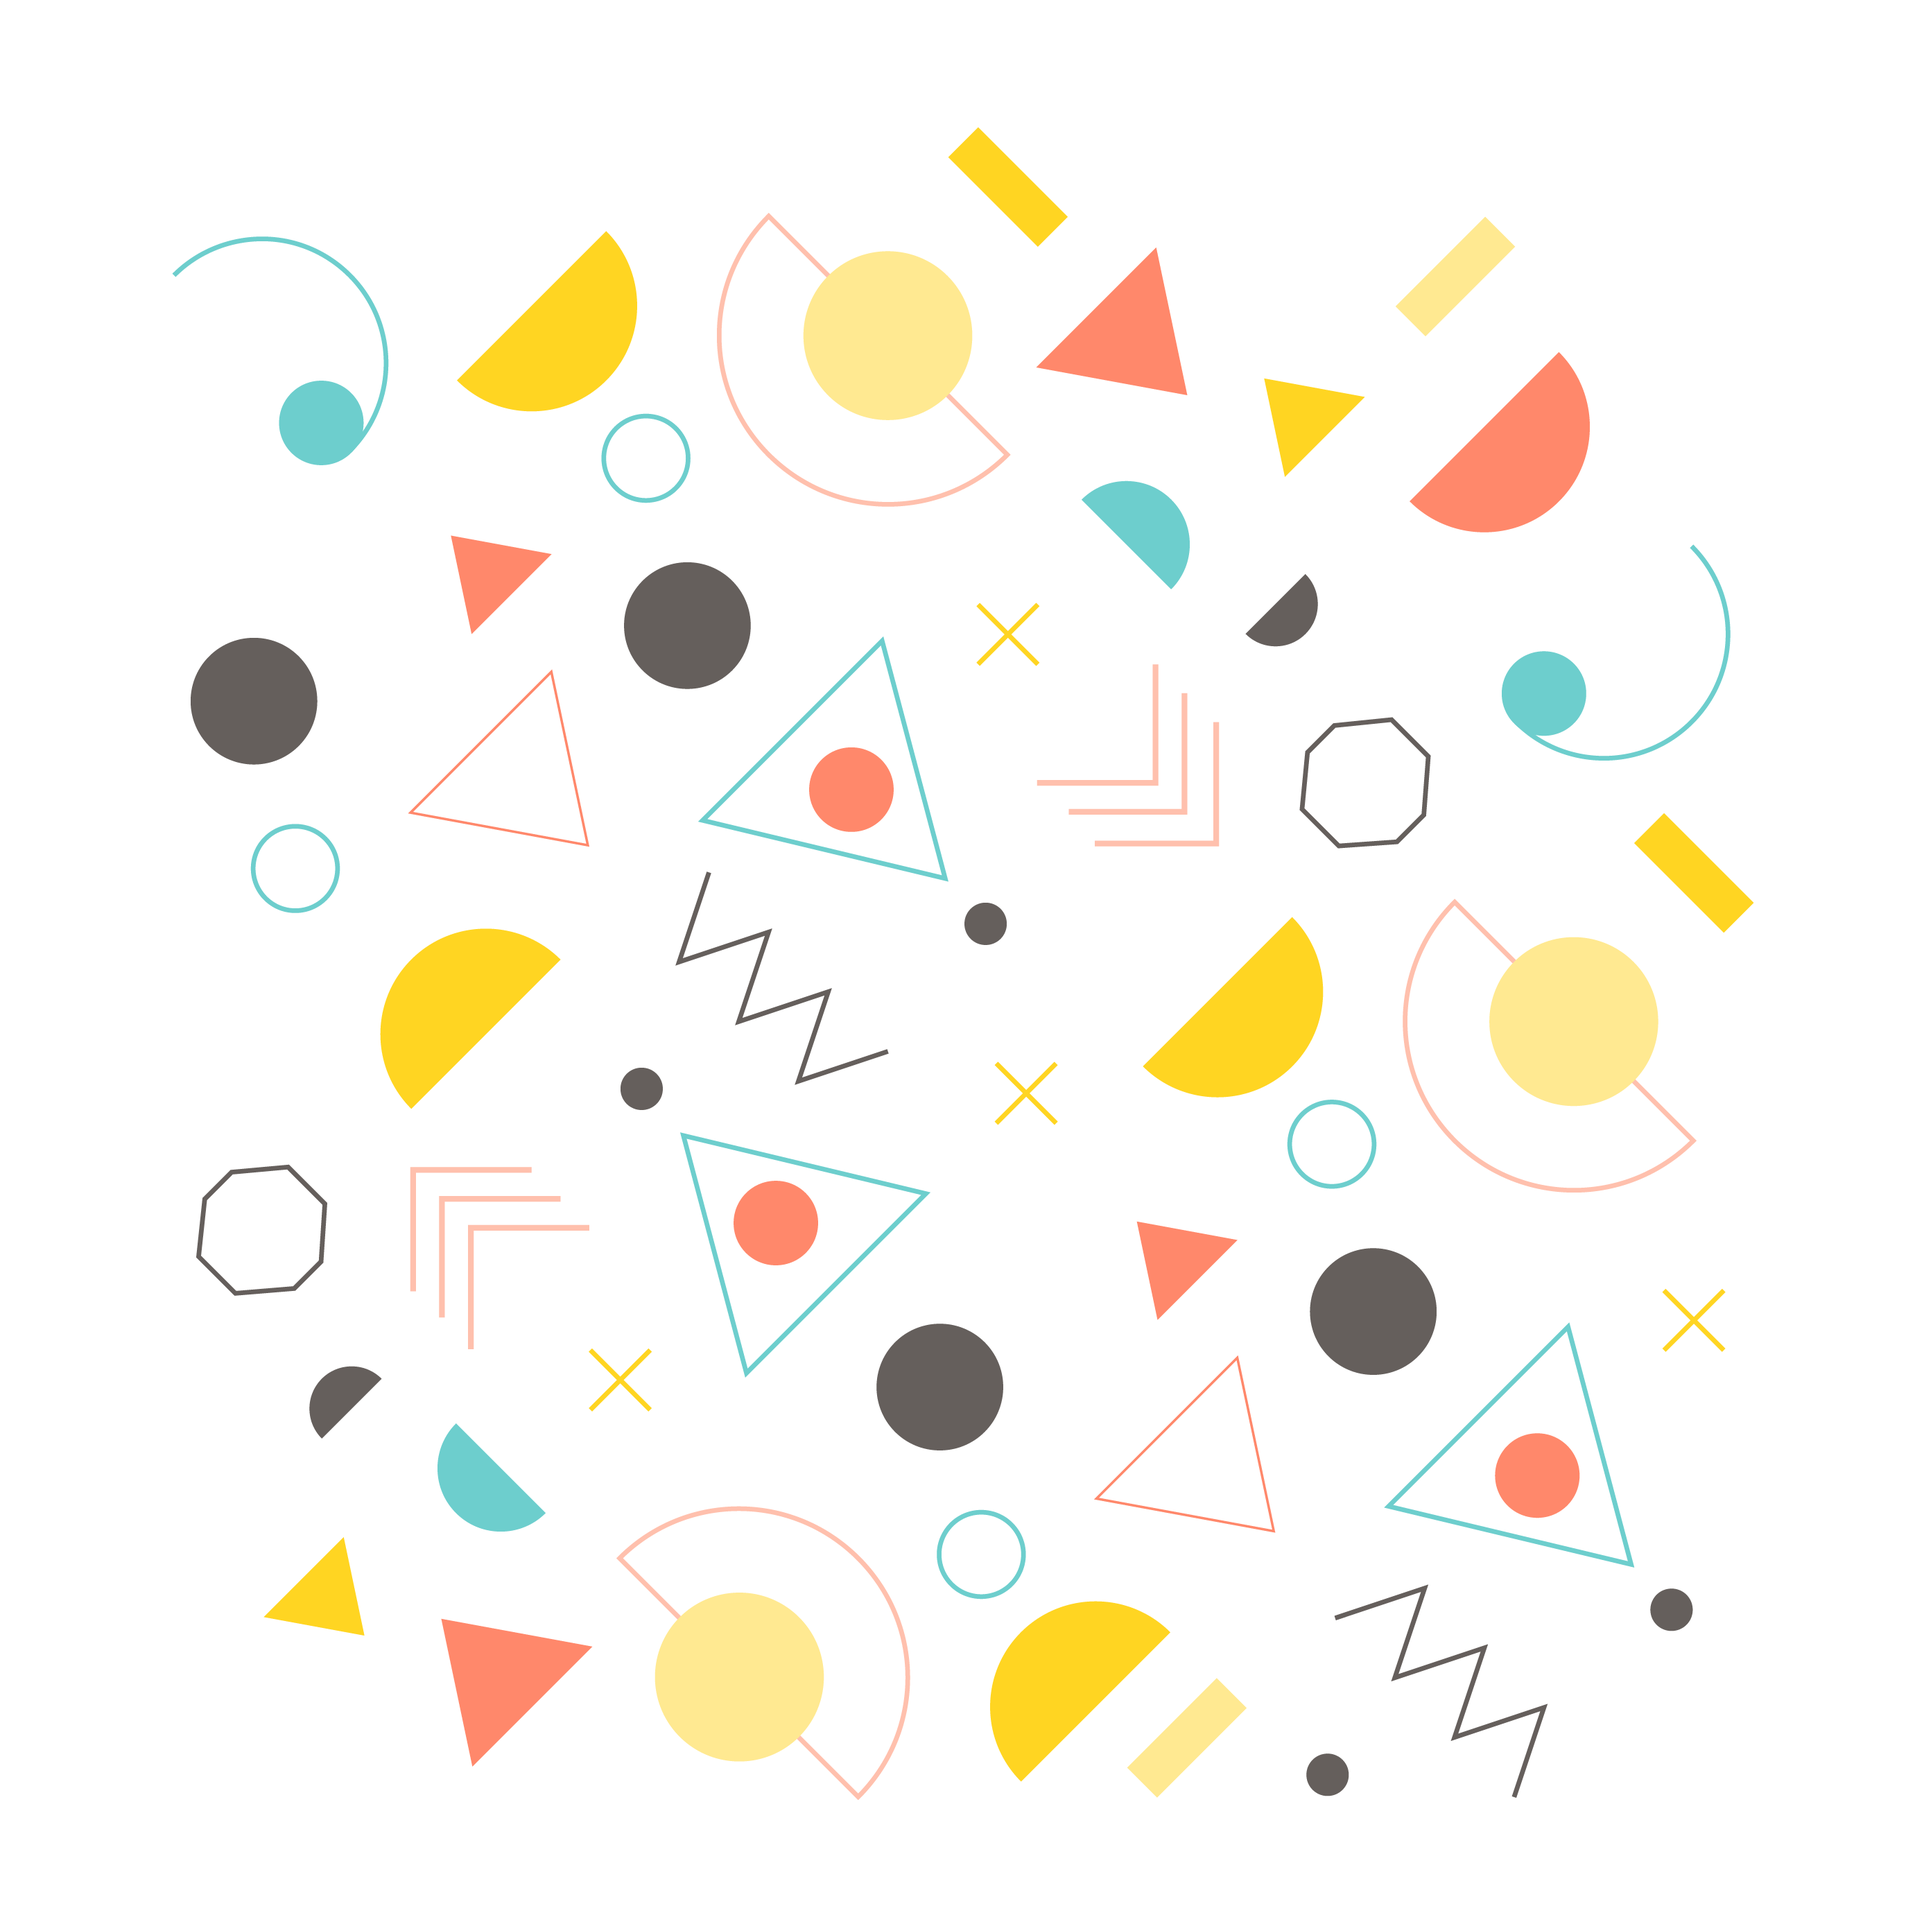
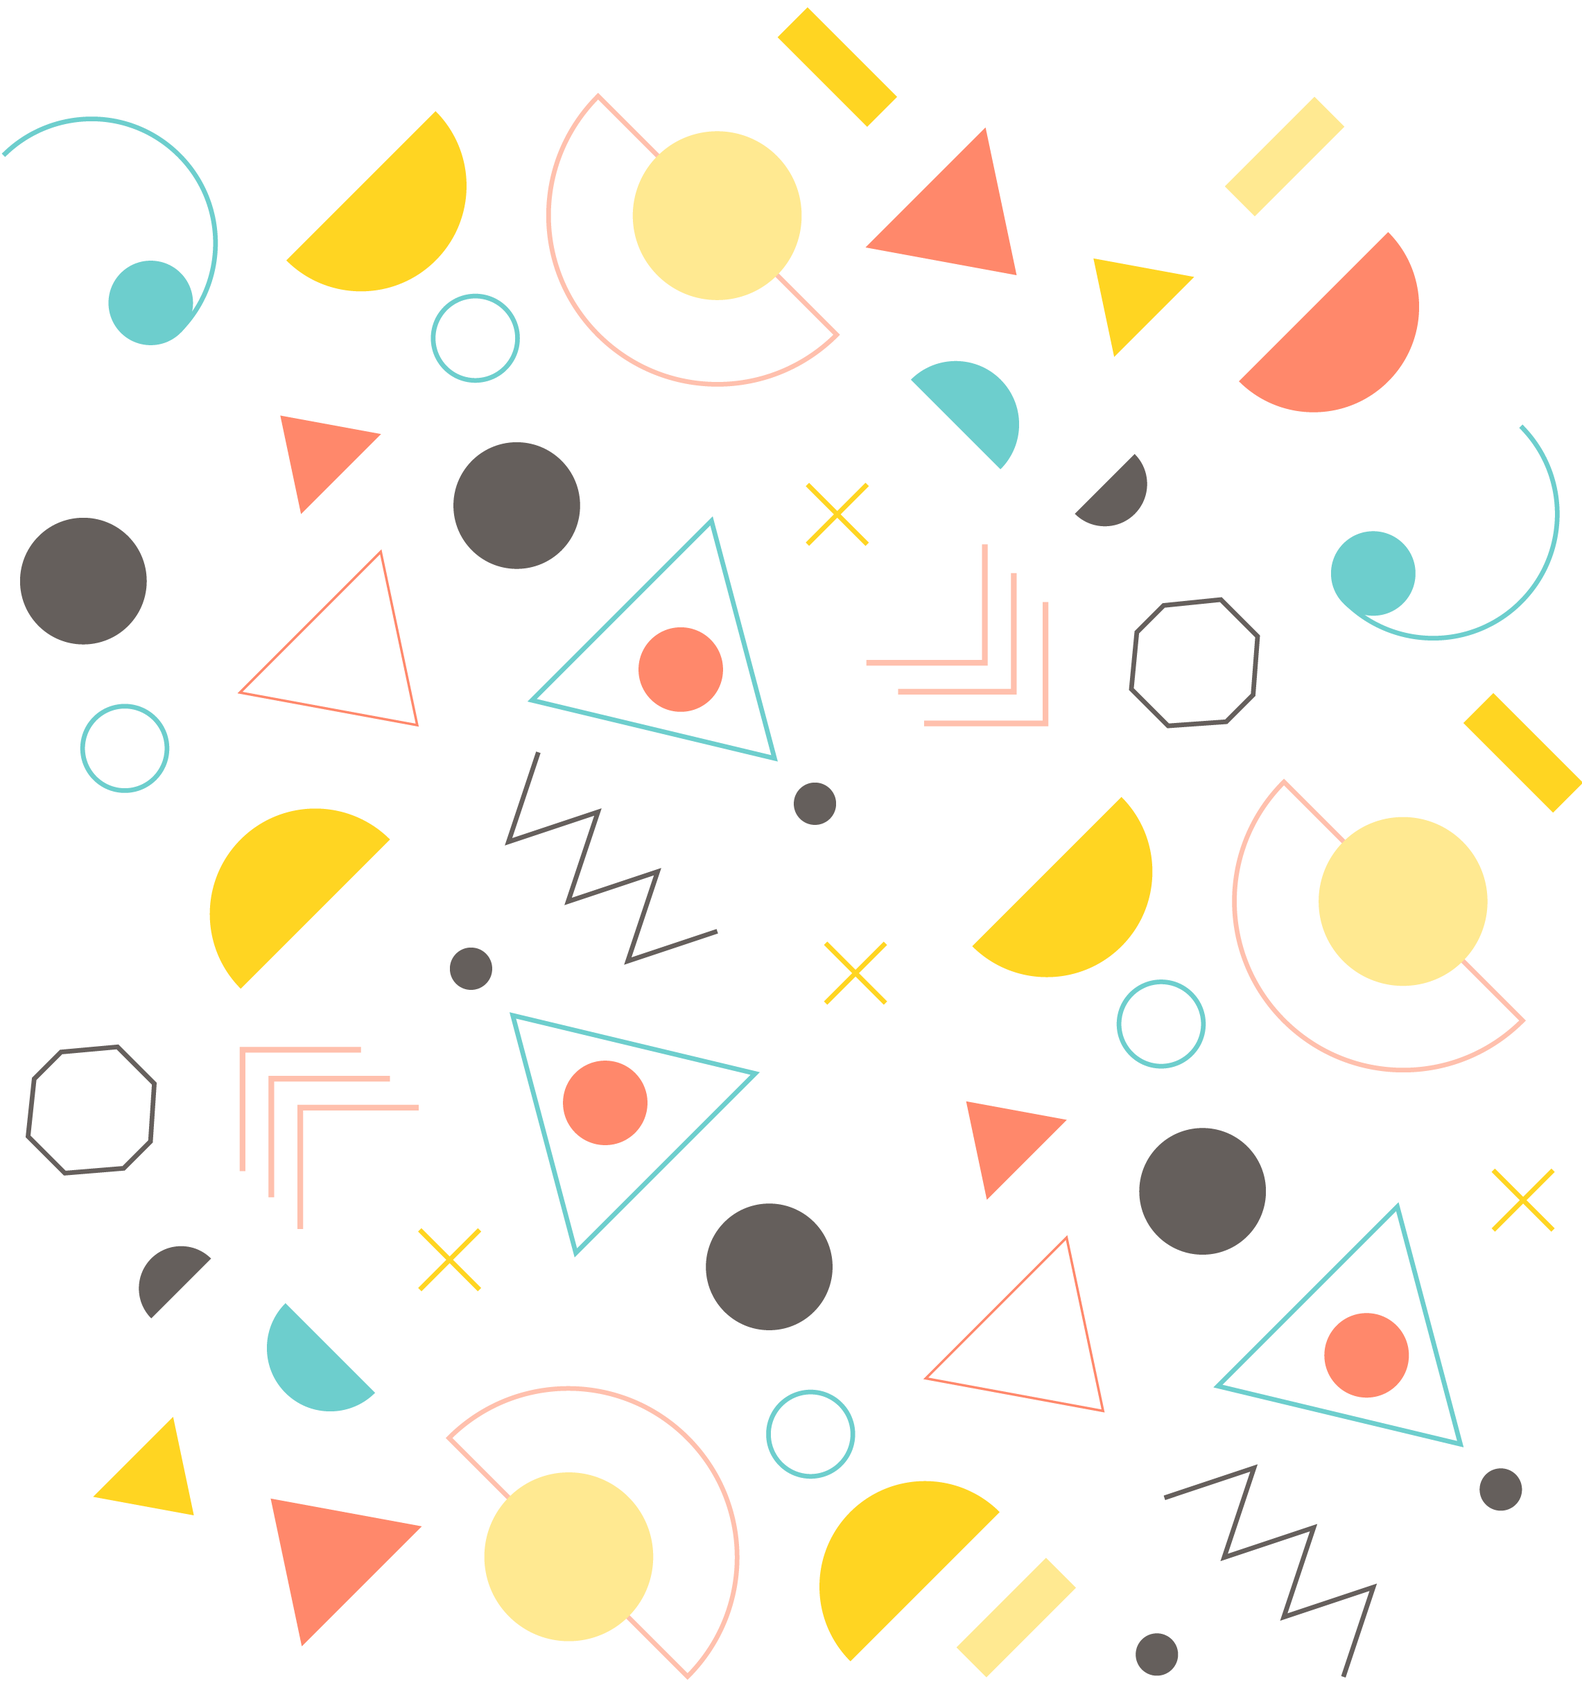
modified some styles

diff --git a/client/src/components/Login.js b/client/src/components/Login.js
@@ -42,8 +42,8 @@ function Login() {
 
         
         <div className="bg-[#4b71b2] h-screen overflow-hidden flex items-center justify-center flex-col log">
-          <div className='text-red-900 text-center text-[2.5rem] font-bold'>Welcome to the List</div>
-          <div className='text-white p-3 rounded-lg text-[1rem] font-bold mb-[3rem]'>Please login or register</div>
+          <div className='text-white  text-center text-[2.5rem] font-bold drop-shadow-[1px_1px_5px_rgb(0,0,0)]'>Welcome to the List</div>
+          <div className='text-white p-3 rounded-lg text-[1rem] font-bold mb-[3rem] drop-shadow-[1px_1px_5px_rgb(0,0,0)]'>Please login or register</div>
         <div className="bg-white lg:w-5/12 md:6/12 w-10/12 shadow-3xl rounded-lg">
           <div className="bg-gray-800 absolute left-1/2 transform -translate-x-1/2 -translate-y-1/2 rounded-full p-2 md:p-6">
             <FaUserAlt className='text-white'/>

diff --git a/client/src/index.css b/client/src/index.css
@@ -17,9 +17,9 @@ body {
 	/* color: #EEE; */
 	background-image: url(./media/pattern.png);
 	/* background-repeat: repeat; */
-	background-size: 120rem ;   
-	background-position-x: -15rem; 
-	background-position-y: -30rem; 
+	background-size: 80rem ;   
+	background-position-x: -5rem; 
+	background-position-y: -5rem; 
 	
 
 
@@ -44,17 +44,19 @@ h1 {
 	font-weight: 700;
 	margin-bottom: 32px;
 	color: #EEE;
+	text-shadow: 1px 1px 8px #000000;
 
 }
 
 h4 {
-	font-size: 18px;
+	font-size: 1rem;
   	margin: auto;
   	width: 60%;
 	color: #ffffff;
 	text-transform: uppercase;
-	font-weight: 400;
 	margin-bottom: 16px;
+	text-shadow: 1px 1px 10px #000000;
+
 }
 
 .todo {

diff --git a/client/src/App.js b/client/src/App.js
@@ -88,7 +88,7 @@ const uncompleteTodo = async (_id) => {
 
       <div className="todos">
         {
-          state?.user?.todos?.length === 0 ? <h3 className="text-center text font-black text-white bg-[#4b71b2] w-fit p-3 rounded-xl m-auto">Please add a task</h3> : <h4 className="font-black">Your tasks</h4>
+          state?.user?.todos?.length === 0 ? <h3 className="text-center text font-black text-white bg-[#4b71b2] w-fit p-3 rounded-xl m-auto bg-opacity-50">Please add a task</h3> : <h4 className="font-black">Your tasks</h4>
         }
 
         {
